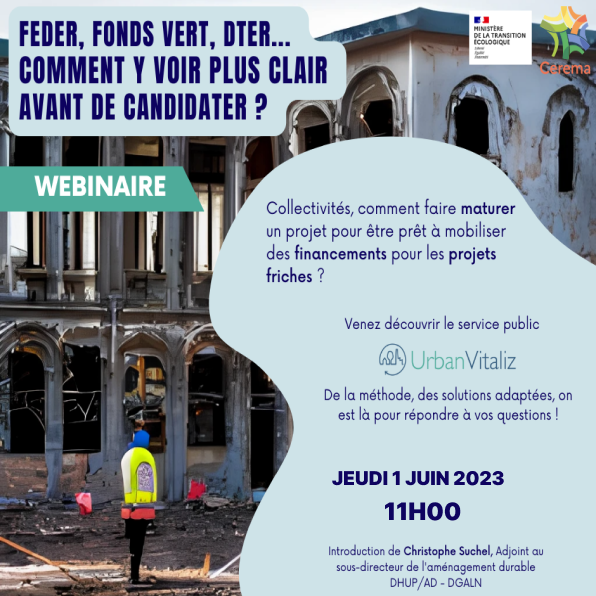
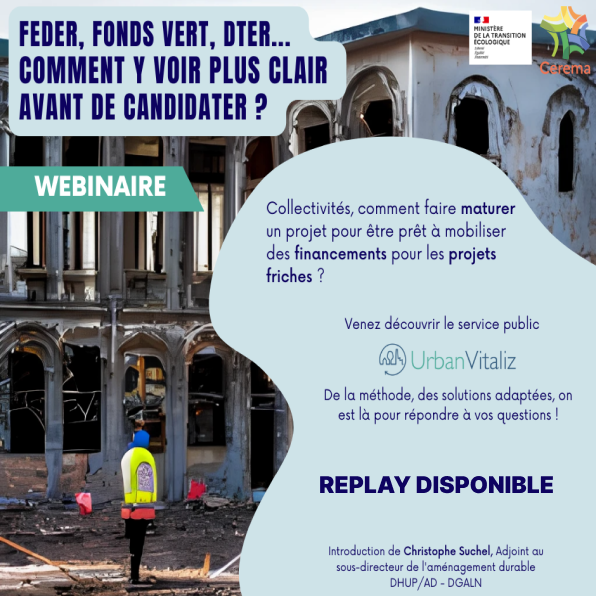
[Home][UV] webinaire actu updated

Changed region(s): [[0.5134, 0.7852, 0.9362, 0.8758]]

diff --git a/templates/urbanvitaliz.fr/home/home.html b/templates/urbanvitaliz.fr/home/home.html
@@ -103,15 +103,15 @@
             <div class="fr-col-12 fr-col-sm-6 fr-col-md-4">
                 <div class="fr-background-default--grey" style="height:100%">
                     <div class="w-100 fr-m-auto mb-4">
-                            <a target="_blank" href="https://framaforms.org/webinaire-urbanvitaliz-friches-11-mai-1er-juin-1681226856"><img src="{% static 'urbanvitaliz.fr/home/img/home/webinaire.png' %}" width="100%" height=""
+                            <a target="_blank" href="https://www.cerema.fr/fr/actualites/rehabiliter-friche-replays-webinaires-urbanvitaliz#paragraph--41603"><img src="{% static 'urbanvitaliz.fr/home/img/home/webinaire.png' %}" width="100%" height=""
                             alt="webinaire"></a>
                     </div>
                     <article class="fr-px-2w pb-4 d-flex flex-column">
                         <span class="text-info-custom text-grey-dark mb-2">Webinaire</span>
                         <h6>
-                            <a target="_blank" href="https://framaforms.org/webinaire-urbanvitaliz-friches-11-mai-1er-juin-1681226856">À venir : le 1 juin à 11h</a>
+                            <a target="_blank" href="https://www.cerema.fr/fr/actualites/rehabiliter-friche-replays-webinaires-urbanvitaliz#paragraph--41603">Replay du webinaire UrbanVitaliz 2023</a>
                         </h6>
-                        <p class="mt-2">En tant que collectivité, comment faire maturer son projet et être prêt pour mobiliser des financements pour les projets de friches ? Inscription <a style="text-decoration: underline;" href="https://bit.ly/3KWaWwb" target="_blank">ici</a></p>
+                        <p class="mt-2">En tant que collectivité, comment faire maturer son projet et être prêt pour mobiliser des financements pour les projets de friches ?</p>
                     </article>
                 </div>
             </div>
